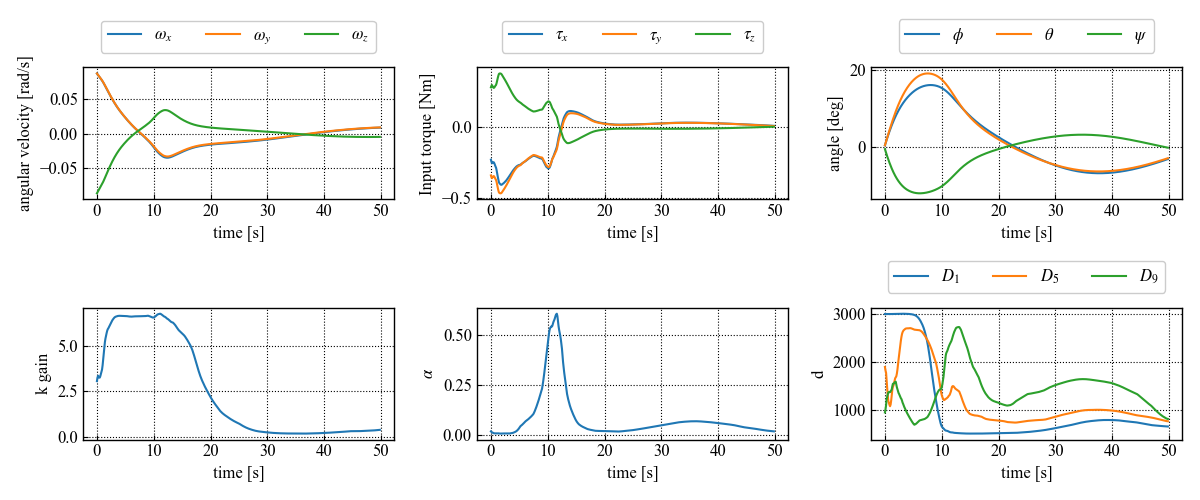
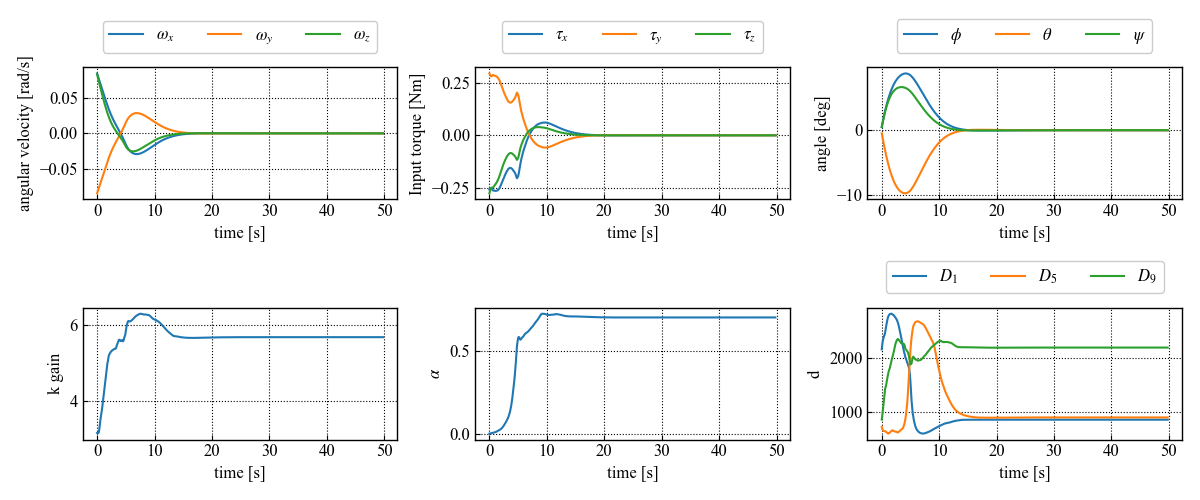
UPDATE: 20210425 add condition to r2

diff --git a/sac/environment.py b/sac/environment.py
@@ -146,10 +146,10 @@ class SatelliteContinuousEnv(gym.Env):
         self.omega_count = 0
         
         #報酬パラメータ
-        self.q_weight = 50#1*20
-        self.w_weight = 0#1.5*100
+        self.q_weight = 80#1*20
+        self.w_weight = 50#1.5*100
         self.action_weight = 0.25*4#0.25*10
-        self.action_rate_weight = 0.1*3
+        self.action_rate_weight = 0.1*10
         
         # 初期状態 角度(deg)　角速度(rad/s)
         # Rest to Rest
@@ -275,7 +275,10 @@ class SatelliteContinuousEnv(gym.Env):
         if not done:
             #状態と入力を抑えたい
             self.r1 = self.q_weight*((1-qe_new[0])**2+ qe_new[1:]@qe_new[1:])
-            self.r2 = self.w_weight*omega_new@omega_new
+            if qe_new[0] < qe[0]:
+                self.r2 = self.w_weight*omega_new@omega_new
+            else:
+                self.r2 = 0
             self.r3 = self.action_weight*action@action
             self.r4 = self.action_rate_weight*(action_delta@action_delta)/self.dt
             reward = -(self.r1 + self.r2 + self.r3 + self.r4) 
@@ -293,7 +296,10 @@ class SatelliteContinuousEnv(gym.Env):
                 reward = 0
             else:
                 self.r1 = self.q_weight*((1-qe_new[0])**2+ qe_new[1:]@qe_new[1:])
-                self.r2 = self.w_weight*omega_new@omega_new
+                if qe_new[0] < qe[0]: 
+                    self.r2 = self.w_weight*omega_new@omega_new
+                else:
+                    self.r2 = 0
                 self.r3 = self.action_weight*action@action
                 self.r4 = self.action_rate_weight*(action_delta@action_delta)/self.dt
                 reward = -(self.r1 + self.r2 + self.r3 + self.r4) 
@@ -313,7 +319,7 @@ class SatelliteContinuousEnv(gym.Env):
         self.inertia = np.array([[2.683, 0.0, 0.0], \
                                 [0.0, 2.683, 0.0], \
                                 [0.0, 0.0, 1.897]])
-        self.multi = np.random.randint(100,self.max_multi*100)/100
+        self.multi = 3#np.random.randint(100,self.max_multi*100)/100
         self.tg_inertia = self.inertia*self.multi
         self.est_th = self.inertia.flatten()*self.multi/25#np.diag(self.inertia)
         # self.est_th = (self.multi*np.diag(self.inertia))/((self.max_multi+1)*np.diag(self.inertia))
@@ -327,7 +333,7 @@ class SatelliteContinuousEnv(gym.Env):
         # self.startEuler = np.deg2rad(np.array([10,0,0]))
         self.startQuate = self.dcm2quaternion(self.euler2dcm(self.startEuler))
         # self.startOmega = np.array([0,0,0])
-        coef = 2*np.random.randint(0,2,size=3)-1
+        coef = 1#2*np.random.randint(0,2,size=3)-1
         self.startOmega = coef* np.deg2rad(np.array([5,-5,5]))#+ np.random.uniform(-1, 1, size=3))
 
         # 目標値(deg)
